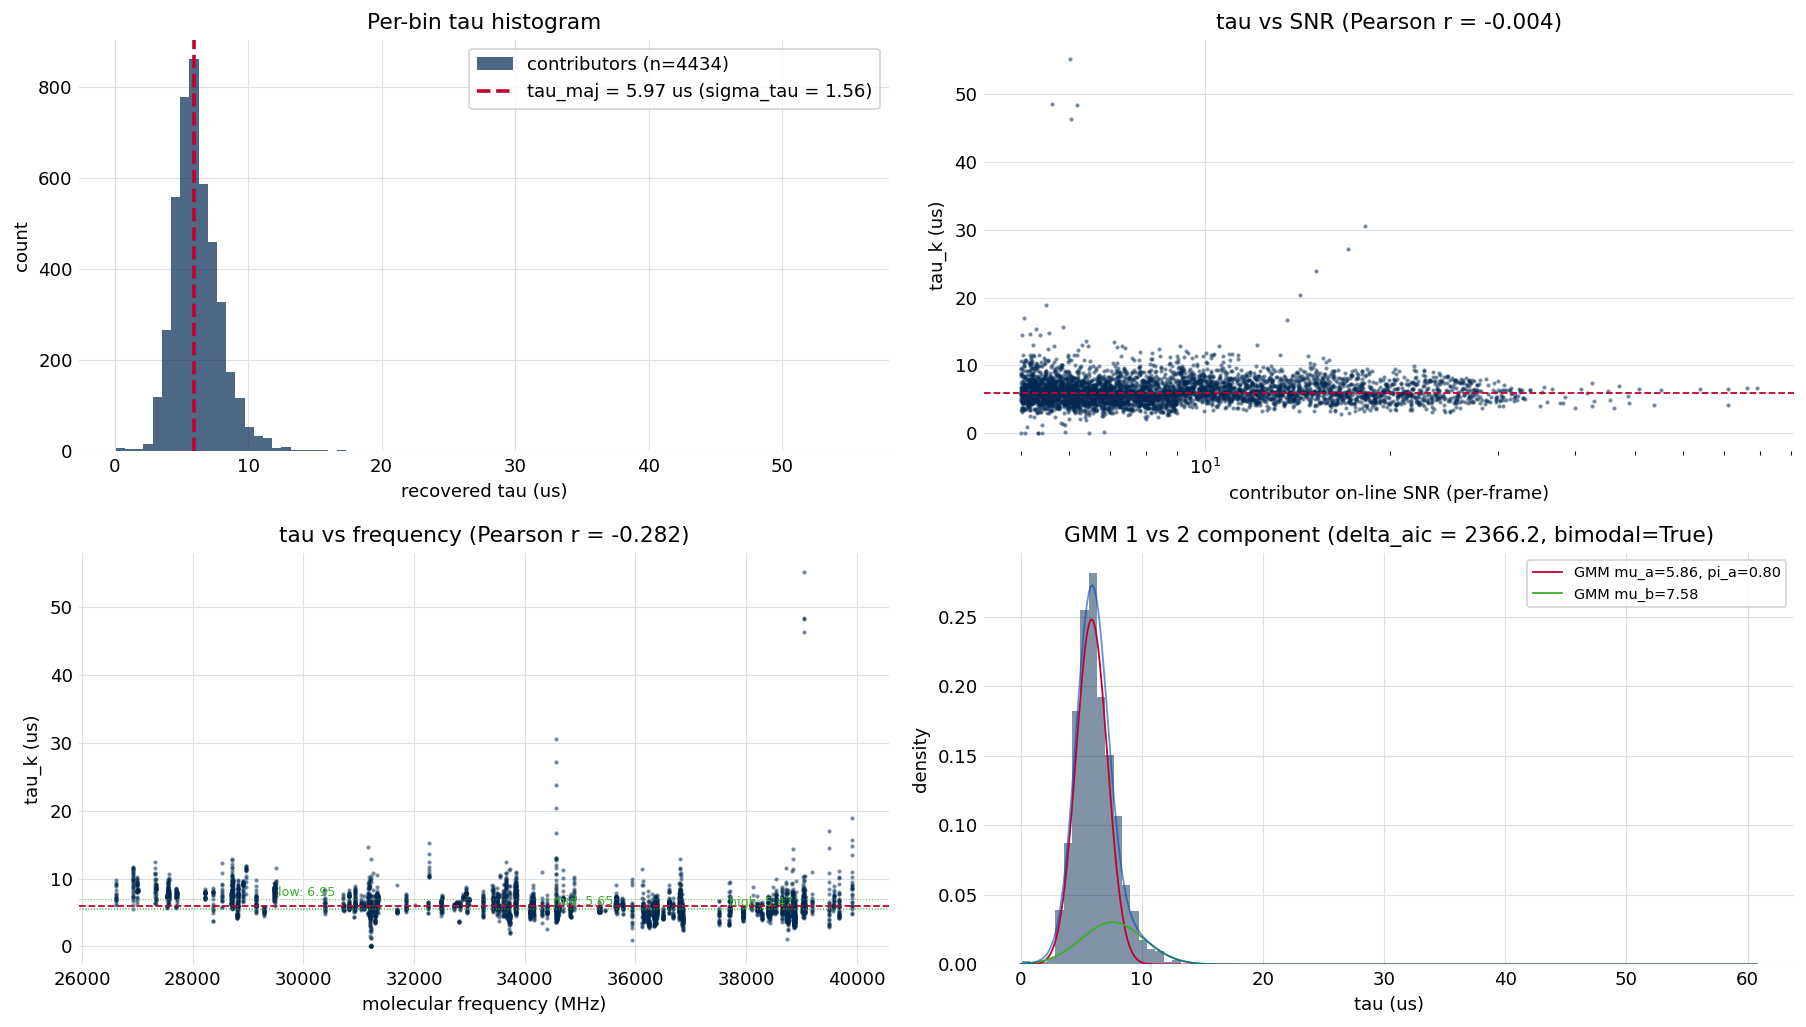
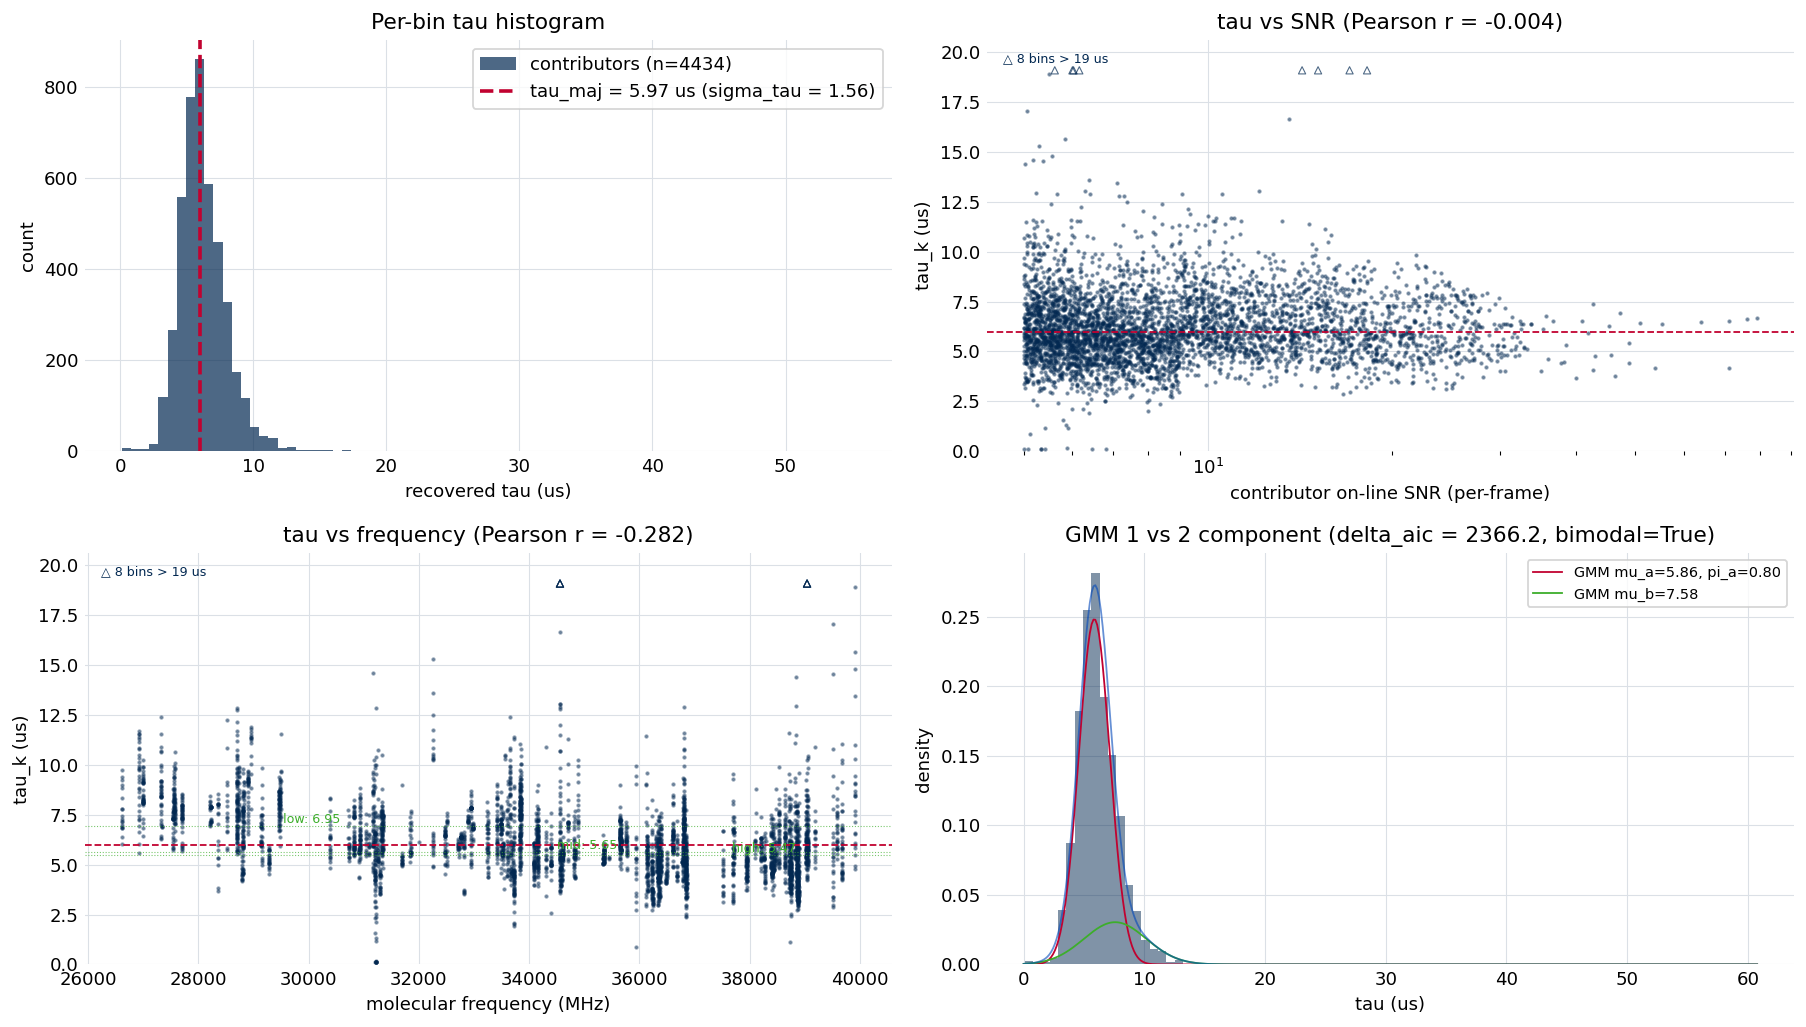
Cap the decay-time scatters at the active-region length
The tau-vs-frequency and tau-vs-SNR panels of the decay-time
distribution figure stretched to the saturation bound, hiding the
band-to-band trend among unreliable long-tau points. Cap both
decay-time axes at one and a half times the active-region length —
decay times beyond that cannot be measured reliably — and flag any
contributor above the cap as an open upward triangle along the top edge.
Reword the Stage 2b guide so the two shape variants read as
alternative-shape fits to one decay rather than two simultaneous
physical decay times.

Claude-Session: https://claude.ai/code/session_012itsht2HzvW34wXcnMVEm4

diff --git a/src/ftmwpipeline/visualization/tau_calibration_visualization.py b/src/ftmwpipeline/visualization/tau_calibration_visualization.py
@@ -139,14 +139,65 @@ def plot_tau_heatmap_from_file(
 # ---------------------------------------------------------------------------
 # Distribution analysis
 # ---------------------------------------------------------------------------
+def _scatter_with_tau_cap(
+    ax: Any, x: np.ndarray, y: np.ndarray, cap: Optional[float], *, color: str
+) -> None:
+    """Scatter ``(x, y)`` with the decay-time axis ``y`` capped at ``cap``.
+
+    Decay times longer than the active-region length cannot be measured
+    reliably, so the panel's y-axis stops at ``cap``; bins above it are drawn
+    as open upward triangles along the ceiling to flag the off-screen data
+    without letting it stretch the axis. ``cap=None`` falls back to a plain
+    scatter.
+    """
+    x = np.asarray(x, dtype=float)
+    y = np.asarray(y, dtype=float)
+    if cap is None or not np.isfinite(cap) or cap <= 0:
+        ax.scatter(x, y, s=2, alpha=0.4, color=color)
+        return
+    over = y > cap
+    if (~over).any():
+        ax.scatter(x[~over], y[~over], s=2, alpha=0.4, color=color)
+    n_over = int(over.sum())
+    if n_over:
+        ax.scatter(
+            x[over],
+            np.full(n_over, cap),
+            s=16,
+            marker="^",
+            facecolors="none",
+            edgecolors=color,
+            linewidths=0.6,
+            alpha=0.7,
+        )
+        ax.text(
+            0.02,
+            0.97,
+            f"△ {n_over} bins > {cap:.0f} us",
+            transform=ax.transAxes,
+            ha="left",
+            va="top",
+            fontsize=7,
+            color=color,
+        )
+    ax.set_ylim(0.0, cap * 1.08)
+
+
 def plot_tau_distribution(
     result: TauCalibrationResult,
     *,
     figsize: Optional[Tuple[float, float]] = None,
     title: Optional[str] = None,
     n_bins: int = 80,
+    tau_cap_factor: float = 1.5,
 ) -> "matplotlib.figure.Figure":
-    """Four-panel distribution analysis: histogram, tau-vs-SNR, tau-vs-freq, GMM."""
+    """Four-panel distribution analysis: histogram, tau-vs-SNR, tau-vs-freq, GMM.
+
+    The two decay-time scatters cap their y-axis at ``tau_cap_factor`` times the
+    active-region length (decay times beyond that are not reliably measurable);
+    contributors above the cap are flagged as open upward triangles along the
+    top edge rather than allowed to stretch the axis.
+    """
     fig, axes = plt.subplots(2, 2, figsize=_figsize_or_default(figsize, (14, 8)))
 
     taus = np.asarray(result.contributor_taus_us)
@@ -155,6 +206,11 @@ def plot_tau_distribution(
     tau_maj = result.tau_maj_us
     sigma_tau = result.sigma_tau_us
     bm = result.bimodality
+
+    # Decay times longer than ~the active-region length are not reliably
+    # measurable; cap the decay-time scatters there and flag anything above.
+    t_active = float(result.end_us - result.start_us)
+    tau_cap = float(tau_cap_factor) * t_active if t_active > 0 else None
 
     # 1. Histogram
     ax = axes[0, 0]
@@ -181,7 +237,7 @@ def plot_tau_distribution(
     # 2. tau vs SNR
     ax = axes[0, 1]
     if snrs.size > 0:
-        ax.scatter(snrs, taus, s=2, alpha=0.4, color=AGGIE_BLUE)
+        _scatter_with_tau_cap(ax, snrs, taus, tau_cap, color=AGGIE_BLUE)
         ax.set_xscale("log")
     ax.axhline(tau_maj, color=DOUBLE_DECKER, ls="--", lw=1)
     ax.set_xlabel("contributor on-line SNR (per-frame)")
@@ -192,7 +248,7 @@ def plot_tau_distribution(
     # 3. tau vs molecular freq
     ax = axes[1, 0]
     if freqs.size > 0:
-        ax.scatter(freqs, taus, s=2, alpha=0.4, color=AGGIE_BLUE)
+        _scatter_with_tau_cap(ax, freqs, taus, tau_cap, color=AGGIE_BLUE)
     ax.axhline(tau_maj, color=DOUBLE_DECKER, ls="--", lw=1)
     ax.set_xlabel("molecular frequency (MHz)")
     ax.set_ylabel("tau_k (us)")

diff --git a/docs/source/stage2b_tau.rst b/docs/source/stage2b_tau.rst
@@ -163,10 +163,14 @@ argument (``--gaussian`` on the command line):
   margin) and applies a higher signal-to-noise floor, so its eligible pool is
   smaller. Its result is stored at ``/stage2b_tau_G_calibration``.
 
-The two are independent and can coexist on one ``.ftmw`` file. The Stage 5 fit
-consumes the variant that matches the shape it is fitting; if that variant is
-absent, it falls back to a default decay time of one third of the active-region
-length.
+The two variants are alternative-shape fits to the **same** underlying decay —
+one forces a pure-exponential envelope, the other a pure-Gaussian one — not two
+physical decay times the molecule has at once. Both can be stored on a single
+``.ftmw`` file simultaneously: when the shape vote (below) names the variant a
+run did not just compute, the run also builds that one, so whichever shape the
+Stage 5 fit ends up using, its matching decay time is already on the file. If the
+matching variant is absent, the fit falls back to a default decay time of one
+third of the active-region length.
 
 The line-shape recommendation
 ------------------------------
@@ -297,7 +301,10 @@ decay time:
    signal-to-noise. Bottom left: decay time versus molecular frequency, showing
    the band-to-band trend the per-band majorities capture. Bottom right: the
    one- versus two-component Gaussian-mixture fit used for the multimodality
-   flag.
+   flag. The two decay-time scatters cap their axis at one and a half times the
+   active-region length — decay times beyond that are not reliably measurable —
+   and flag any contributor above the cap as an open triangle along the top
+   edge.
 
 The same figures are available from Python through
 :func:`ftmwpipeline.api.visualize_tau_distribution` and
